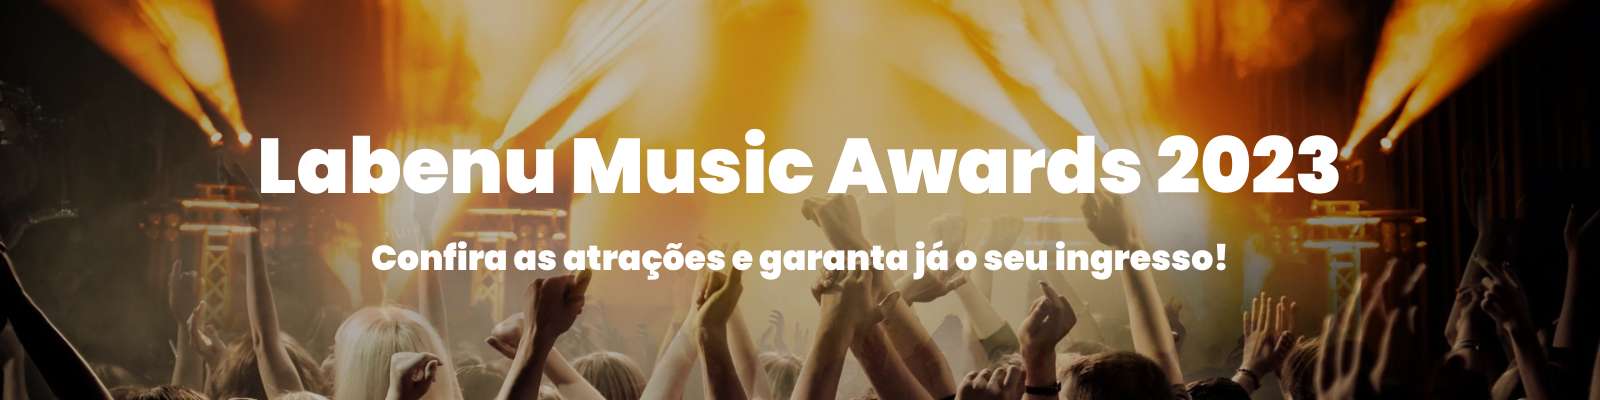
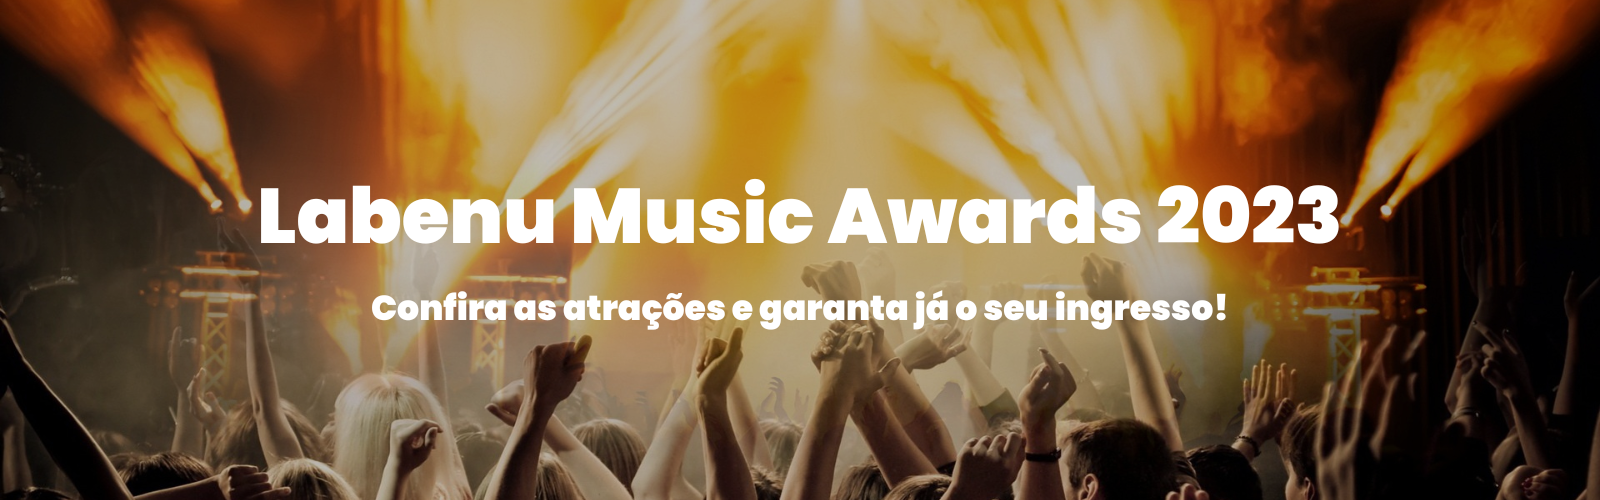
fix: I added a space-between in the ticket card to make sure the button will be alwait in the same place and changed the home img

diff --git a/src/pages/Tickets/Tickets.tsx b/src/pages/Tickets/Tickets.tsx
@@ -8,6 +8,8 @@ import { TicketsSection } from "./style"
 import ticketFriday from "../../images/ticket-friday.png"
 import ticketSaturday from "../../images/ticket-saturday.png"
 import ticketSunday from "../../images/ticket-sunday.png"
+import {IoIosArrowDroprightCircle} from "react-icons/io"
+import {IoIosArrowDropleftCircle} from "react-icons/io"
 
 interface ticket {
     id: string,
@@ -116,27 +118,27 @@ export function Tickets () {
                 {(isLoadingFriday && isLoadingSaturday && isLoadingSunday) && <div id="loading"><Loading color="black"/></div>}
                 {!isLoadingFriday && dataFriday && (
                     <div className="ticket-div-wrapper">
-                        <button className="buttonScroll" onClick={handleLeftClickFri}>-</button>
+                        <button className="buttonScroll" onClick={handleLeftClickFri}><IoIosArrowDropleftCircle/></button>
                         <div className="ticket-div" ref={carouselFriday}>{renderdataFriday}</div>
-                        <button className="buttonScroll" onClick={handleRightClickFri}>+</button>
+                        <button className="buttonScroll" onClick={handleRightClickFri}><IoIosArrowDroprightCircle/></button>
                     </div>
                 )}
                 {!isLoadingFriday && !dataFriday && errorFriday && <p className="error">{errorFriday}</p>}
 
                 {!isLoadingSaturday && dataSaturday && (
                     <div className="ticket-div-wrapper">
-                        <button className="buttonScroll" onClick={handleLeftClickSat}>-</button>
+                        <button className="buttonScroll" onClick={handleLeftClickSat}><IoIosArrowDropleftCircle/></button>
                         <div className="ticket-div" ref={carouselSaturday}>{renderdataSaturday}</div>
-                        <button className="buttonScroll" onClick={handleRightClickSat}>+</button>
+                        <button className="buttonScroll" onClick={handleRightClickSat}><IoIosArrowDroprightCircle/></button>
                     </div>
                 )}
                 {!isLoadingSaturday && !dataSaturday && errorSaturday && <p className="error">{errorSaturday}</p>}
 
                 {!isLoadingSunday && dataSunday && (
                     <div className="ticket-div-wrapper">
-                        <button className="buttonScroll" onClick={handleLeftClickSun}>-</button>
+                        <button className="buttonScroll" onClick={handleLeftClickSun}><IoIosArrowDropleftCircle/></button>
                         <div className="ticket-div" ref={carouselSunday}>{renderdataSunday}</div>
-                        <button className="buttonScroll" onClick={handleRightClickSun}>+</button>
+                        <button className="buttonScroll" onClick={handleRightClickSun}><IoIosArrowDroprightCircle/></button>
                     </div>
                 )}
                 {!isLoadingSunday && !dataSunday && errorSunday && <p className="error">{errorSunday}</p>}

diff --git a/src/components/TicketCard/style.tsx b/src/components/TicketCard/style.tsx
@@ -3,7 +3,9 @@ import styled from "styled-components"
 export const TicketSection = styled.div `
     display: flex;
     flex-direction: column;
-    padding: 20px 20px 40px 20px;
+    justify-content: space-between;
+    gap: 2vh;
+    padding: 20px 20px 30px 20px;
     background-color: #ffffff;
     border-radius: 5px;
     
@@ -16,31 +18,37 @@ export const TicketSection = styled.div `
         max-width: 300px;    
     }
 
-    img {
-        width: 100%;
-        border-radius: 5px 5px 0 0;
-    }
-
-    h3 {
-        color: black;
+    div {
         background-color: white;
-        margin: 2vh 0 1vh 0;
-    }
 
-    p {
-        font-size: 16px;
-        color: black;
-        background-color: white;
-    }
+        img {
+            width: 100%;
+            border-radius: 5px 5px 0 0;
+        }
 
-    #price {
-        font-size: 24px;
-        font-weight: 600;
-        color: green;
-        background-color: white;
+        h4 {
+            color: black;
+            background-color: white;
+            padding: 1vh 0;
+            line-height: 4vh;
+        }
+
+        p {
+            font-size: 16px;
+            color: black;
+            background-color: white;
+        }
+
+        #price {
+            font-size: 24px;
+            font-weight: 600;
+            color: green;
+            background-color: white;
+            padding: .5vh 0;
+        }
     }
 
     button {
-        margin-top: 2.5vh;
+        margin-bottom: 1vh;
     }
 `

diff --git a/src/pages/Tickets/style.tsx b/src/pages/Tickets/style.tsx
@@ -4,11 +4,11 @@ import styled from "styled-components"
 export const TicketsSection = styled.section `
     display: flex;
     flex-direction: column;
-    gap: 5vh;
+    gap: 7vh;
     min-height: 68vh;
 
     @media screen and (min-width: 900px) {
-        margin: 5vh 1vw 5vh 1vw;
+        margin: 7vh 1vw 7vh 1vw;
     }
     @media screen and (max-width: 900px) {
         margin: 5vh 6vw 5vh 6vw;
@@ -35,11 +35,18 @@ export const TicketsSection = styled.section `
 
             @media screen and (min-width: 900px) {
                 border-radius: 5px;
-                padding: 20px;
-                background: linear-gradient(90deg, #4d4d4d, #434343, #252525);
-                opacity: .3;
+                padding: 10px;
+                background: linear-gradient(90deg, #333333, #202020, #000000);
+                opacity: .2;
+
                 :hover {
-                    opacity: 1;
+                    opacity: .8;
+                }
+
+                svg {
+                    height: 35px;
+                    width: 35px;
+                    background-color: transparent;
                 }
             }
         }

diff --git a/src/components/TicketCard/TicketCard.tsx b/src/components/TicketCard/TicketCard.tsx
@@ -44,13 +44,14 @@ export function TicketCard (props: ticketProps) {
     
     return (
         <TicketSection>
-            <img src={props.img}/>
-            
-            <h3>{props.ticketName}</h3>
-            <p>{props.bandName}</p>
-            <p id="price">R${props.price},00</p>
-            <p>Horário: {props.startTime.toString()} - {props.endTime.toString()}</p>
-            <p>Ingressos disponíveis: {props.ticketsAvailable}</p>
+            <div>
+                <img src={props.img} alt="Imagem promocional do show"/>
+                <h4>{props.ticketName}</h4>
+                <p>{props.bandName}</p>
+                <p id="price">R${props.price},00</p>
+                <p>Horário: {props.startTime.toString()} - {props.endTime.toString()}</p>
+                <p>Ingressos disponíveis: {props.ticketsAvailable}</p>
+            </div>
 
             <button onClick={handleAddTicketToCart}>Comprar</button>
         </TicketSection>

diff --git a/src/pages/Photos/Photos.tsx b/src/pages/Photos/Photos.tsx
@@ -26,7 +26,7 @@ export function Photos () {
     const navigate = useNavigate()
 
     const handlePhotoDeletion = (id: string) => {
-        if (dataUser && dataUser.role !== "ADMIN") {
+        if (!dataUser || (dataUser && dataUser.role !== "ADMIN")) {
             return
         } else {
             const deletePhotoConfirmation = confirm("Você gostaria de deletar essa foto?")
